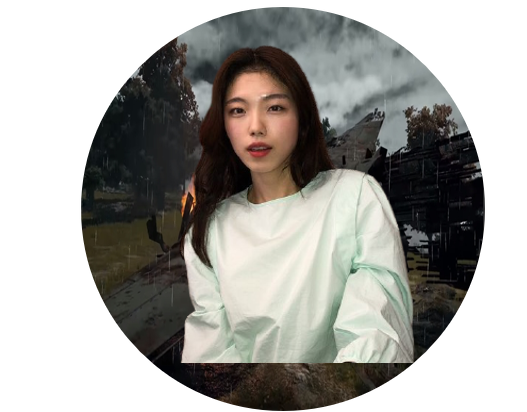
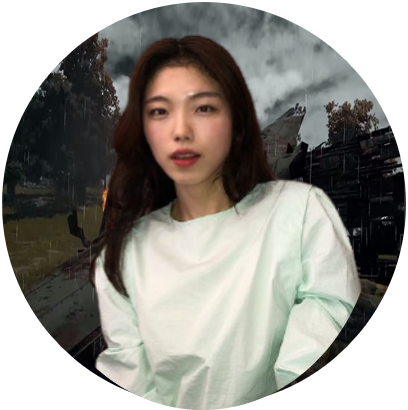
사진추가

diff --git a/About5.html b/About5.html
@@ -188,7 +188,7 @@
         </div>
       </div>
       <div class="w3-third w3-container w3-margin-bottom">
-        <img src="img/ssoi.png" alt="사진1" style="width:100%" class="w3-hover-opacity">
+        <img src="img/ssoi.png" alt="사진1" style="width:80%" class="w3-hover-opacity">
         <div class="w3-container w3-white">
           <h3>김소이<h3>
           <p>내용이메일 냉용 냉용 역할 프로필 </p>
@@ -199,7 +199,7 @@
   <!-- Second Photo Grid-->
   <div class="w3-row-padding">
     <div class="w3-third w3-container w3-margin-bottom">
-      <img src="img/후라이팬.png" alt="사진" style="width:100%" class="w3-hover-opacity">
+      <img src="img/hi.png" alt="사진" style="width:80%" class="w3-hover-opacity">
       <div class="w3-container w3-white">
         <h3>김해인</h3>
         <p>프로필 쓸거고 이름</p>
